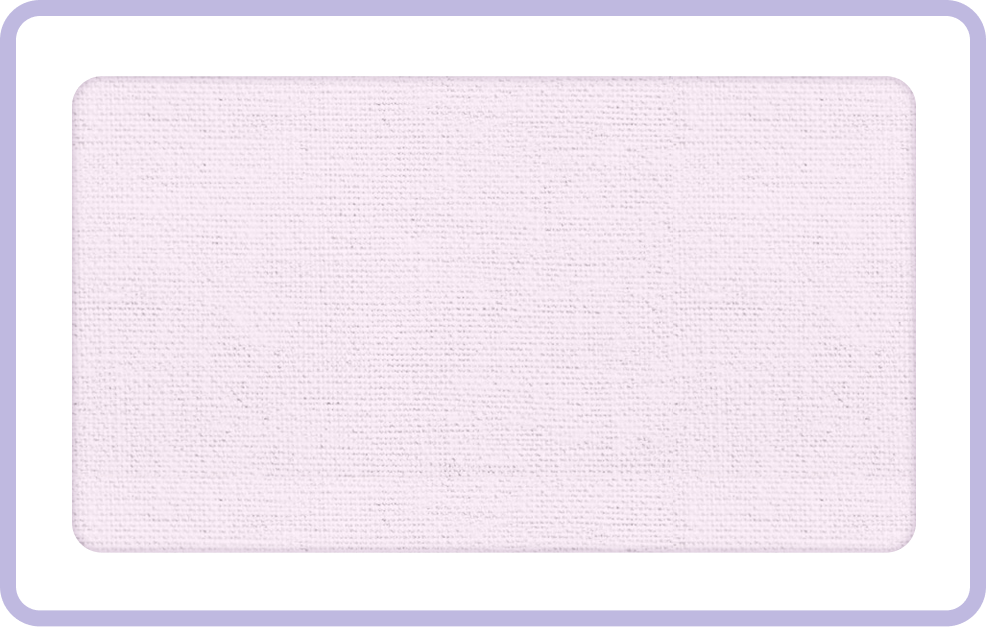
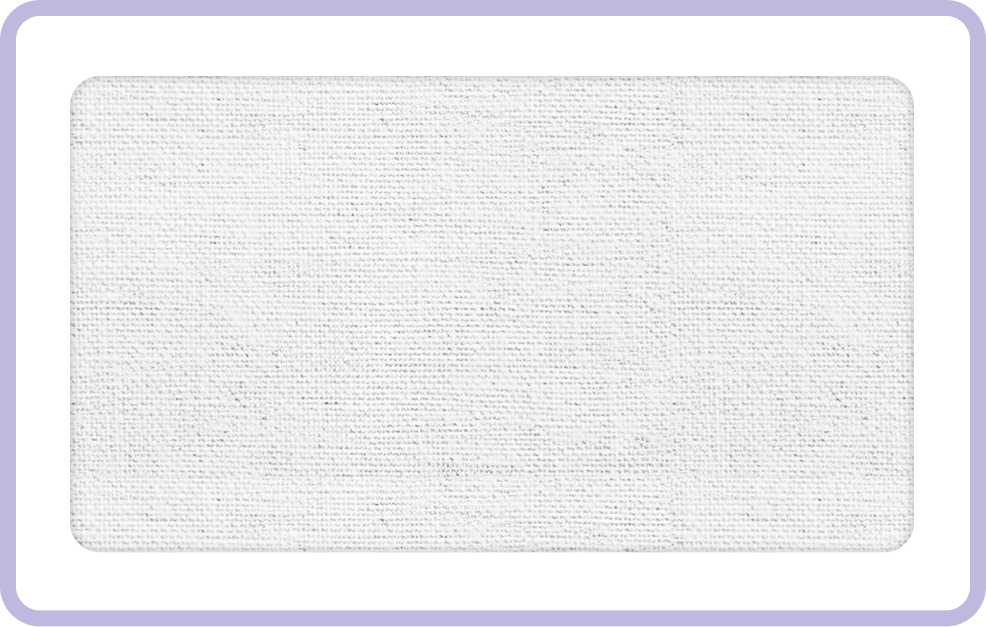
Edit

diff --git a/index.html b/index.html
@@ -76,7 +76,7 @@ header {
 #navbar {
     background-color: white;
     color: #A969B9;
-    box-shadow: 3px 3px 10px rgba(187, 114, 168, 0.24);
+    box-shadow: 3px 17px 20px #351f471a;
     padding: 5px 10px;
     font-size: 15px;
     font-family: headertextbold;
@@ -325,8 +325,7 @@ footer {
     left: 50%;
     transform: translate(-50%, -50%);
     border-radius: 10px;
-    box-shadow: 0px 6px 13.9px -4px #43323e33;
-    background-image: url(Paintings/solareclipse2.gif);
+    box-shadow: 0px 0px 28px -4px #351f4752;
     background-position: center;
     background-repeat: no-repeat;
     background-size: cover;
@@ -346,12 +345,12 @@ footer {
 
 .galleryimg:hover{
     transform: scale(1.01);
-    box-shadow: 0px 6px 13.9px -4px #452d4833;
+    box-shadow: 0px 0px 28px -4px #351f4752;
 }
 
 .button1:hover,.button2:hover,.smbuttons:hover{
     filter: saturate(1.5);
-    box-shadow: 0px 6px 13.9px -4px #452d4833;
+    box-shadow: 0px 6px 13.9px -4px #351f4739;
 }
 
 .smfootericons:hover{
@@ -364,7 +363,7 @@ footer {
     background-size: cover;
     background-position: 30%;
     background-repeat: no-repeat;
-    background-position-y: 50px;
+    background-position-y: 60px;
     width: stretch;
     height: 100vh;
     position: relative;
@@ -524,7 +523,6 @@ footer {
 
     #welcomeimage{
         background-attachment:unset;
-        margin-top:-50px;
         padding-top:150px;
         background-position-y: 0;
     }
@@ -627,7 +625,9 @@ footer {
         <section style="display:flex; flex-direction:column; justify-content:center; width:100%; height:100%;">
             <div class="middleheader"><h3>What I'm drawing now</h3> <p class="caption1">Updated: 01/01/2026</p></div>
             <div style="position: relative; display: inline-block; width: 100%; height: 100%;">
-                <div class="canvaspaper"></div>
+                <div class="canvaspaper">
+                    <img class="galleryimg" style="width: 100%; height: stretch; display: block;" src="Paintings/untitled4.2.gif"/>
+                </div>
                 <img class="canvas" style="width: 100%; height: stretch; display: block;" src="Assets/canvas1.png"/>
             </div>
         </section>
